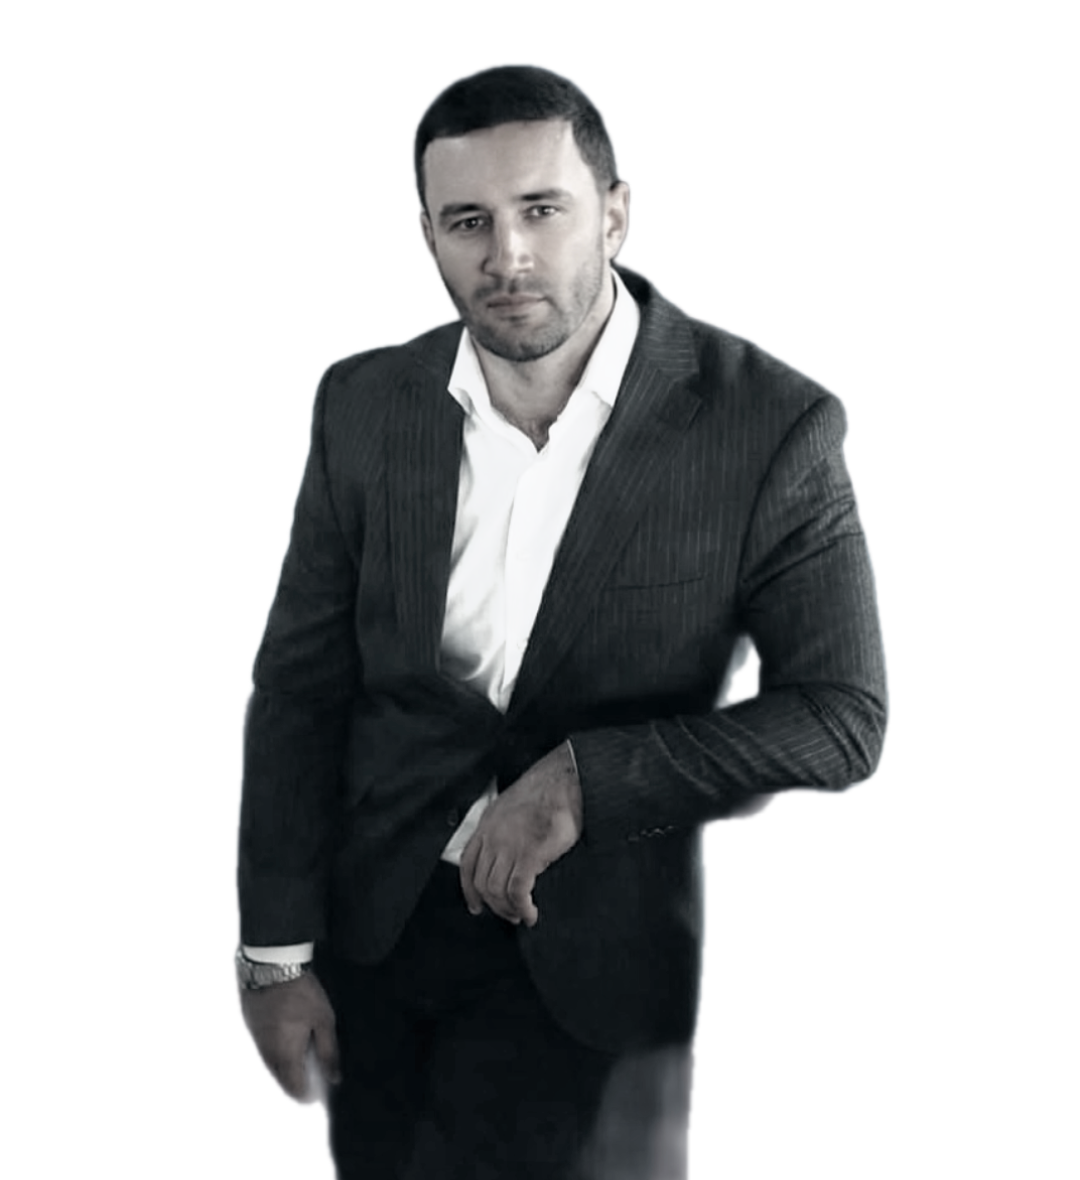
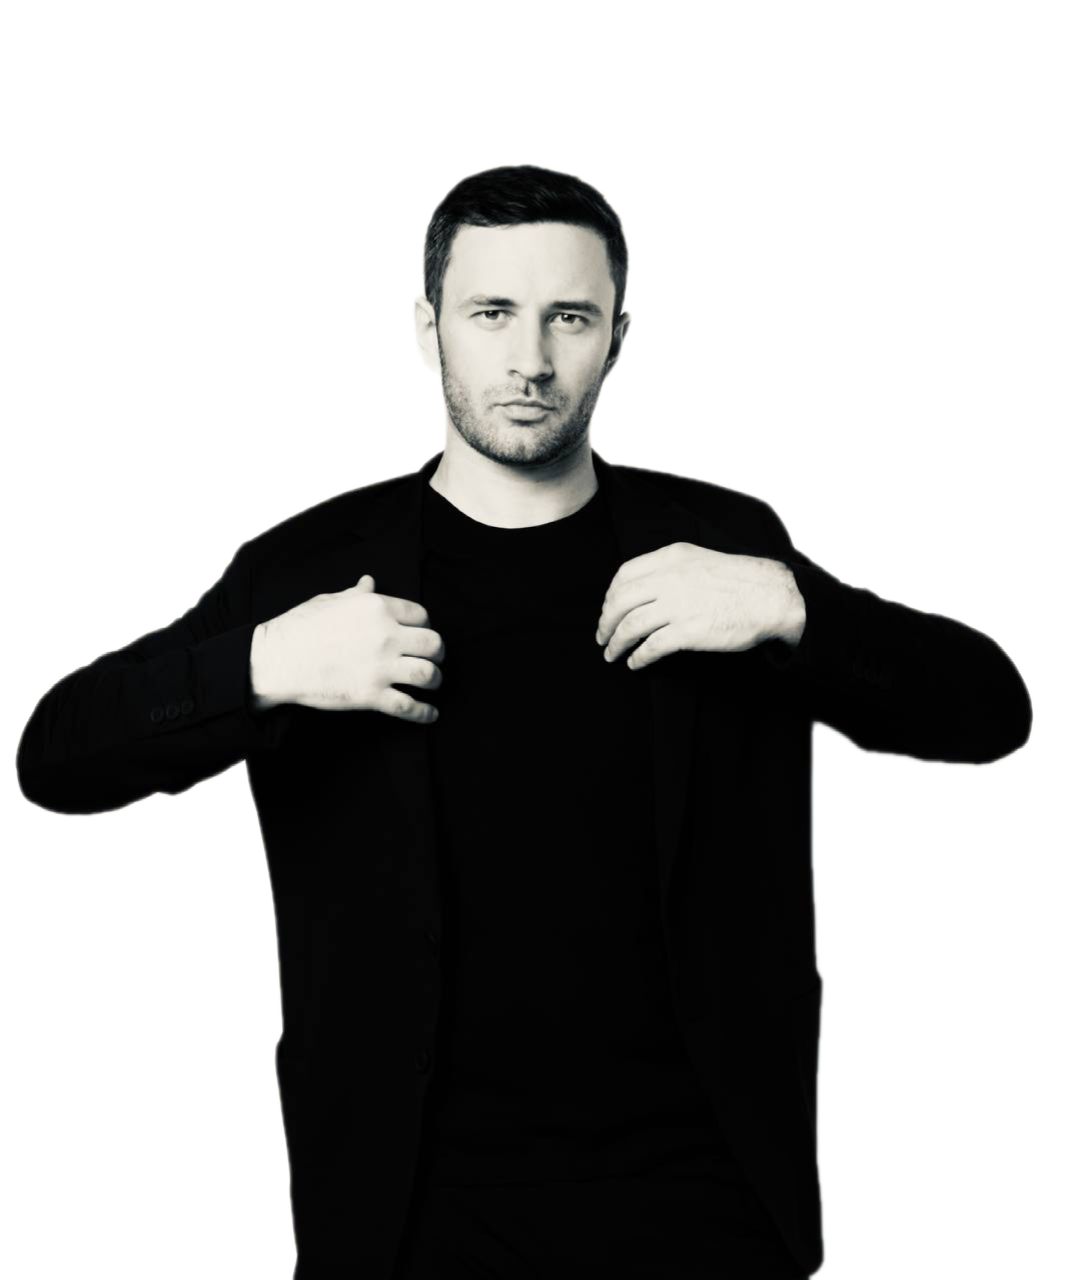
Update photo with glow effect for dark mode

diff --git a/src/app/(public)/about/page.tsx b/src/app/(public)/about/page.tsx
@@ -52,11 +52,14 @@ export default async function AboutPage() {
         <div className="container mx-auto px-6 lg:px-8">
           <div className="grid lg:grid-cols-2 gap-12 lg:gap-20 items-center">
             {/* Image */}
-            <div className="relative aspect-[4/5] rounded-2xl overflow-hidden bg-secondary order-2 lg:order-1">
+            <div className="relative aspect-[4/5] rounded-2xl overflow-hidden bg-white dark:bg-transparent order-2 lg:order-1">
+              {/* Glow effect for dark mode */}
+              <div className="absolute inset-0 dark:bg-gradient-to-t dark:from-background dark:via-transparent dark:to-background/50 z-10 pointer-events-none" />
+              <div className="absolute inset-0 dark:bg-gradient-to-r dark:from-background/80 dark:via-transparent dark:to-background/80 z-10 pointer-events-none" />
               <img
                 src={lawyerPhoto}
                 alt={lawyerName}
-                className="w-full h-full object-cover object-top"
+                className="w-full h-full object-cover object-top dark:mix-blend-luminosity dark:opacity-95"
               />
             </div>
 
